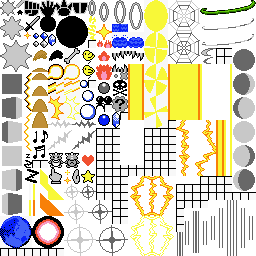
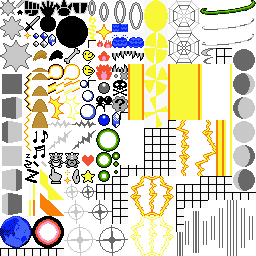
animate sunny day, solar beam

Changed region(s): [[0.375, 0.5, 0.4688, 0.7188], [0.125, 0.625, 0.1875, 0.6562]]

diff --git a/src/Effect.ts b/src/Effect.ts
@@ -723,7 +723,89 @@ const amnesia = (x: number, y: number, dir: number = 1) => (view: View) => {
 	]);
 };
 
+const sunnyDay = (view: View) => {
+	const evt: DeepEvent[] = [];
+	const lifespan = 16;
+	evt.push(view.brighten());
+	for (let i = 0; i < 100; i++) {
+		const x = Math.random() * (Graphics.GAMEBOY_WIDTH * 1.5) - Graphics.GAMEBOY_WIDTH * 0.5;
+		evt.push(view.particleV1(stage => new Particle.Static(stage, x, 0, "SHINE_LIGHT", lifespan)
+			.offsetX(t => t * 96).offsetY(t => t * 96)));
+		if (i % 4 === 0) {
+			evt.push(Events.wait(3));
+		}
+	}
+	evt.push(Events.wait(lifespan));
+	evt.push(view.resetMatrixFilter());
+	return Events.flatten(evt);
+};
+
+const solarBeamCharge = (x: number, y: number) => (view: View) => {
+	const r = 40;
+	const sq2_2 = r * 0.70710678;
+	const charge1 = (dx: number, dy: number) => {
+		return view.particleV1(stage => new Particle.Sequence(stage, x + dx, y + dy, [ "SOLAR_BEAM_1", "SOLAR_BEAM_2", "SOLAR_BEAM_3",  "SOLAR_BEAM_3"  ], 28, 80)
+			.offsetX(t => t * -dx).offsetY(t => t * -dy));
+	}
+	return Events.flatten([
+		charge1(-r, 0),
+		charge1(r, 0),
+		charge1(0, -r),
+		charge1(0, r),
+		charge1(0 - sq2_2, 0 - sq2_2),
+		charge1(0 - sq2_2, 0 + sq2_2),
+		charge1(0 + sq2_2, 0 - sq2_2),
+		charge1(0 + sq2_2, 0 + sq2_2),
+		Events.wait(28),
+		view.particleV1(stage => new Particle.Sequence(stage, x, y, [ "SOLAR_BEAM_4", "SOLAR_BEAM_5", "SOLAR_BEAM_6" ], 33, 99)),
+		Events.wait(70),
+		() => view.getStage().visible = false,
+		Events.wait(4),
+		() => view.getStage().visible = true,
+		Events.wait(25),
+		view.particleV1(stage => new Particle.Static(stage, x, y, "SOLAR_BEAM_6", 33).setFlicker(4)),
+		Events.wait(40)
+	]);
+};
+
+const solarBeam = (x: number, y: number, dir: number = 1) => (view: View) => {
+	// 54 80
+	const delay = 4;
+	const lifespan = 80;
+	const length = 8;
+	const evt: DeepEvent[] = [];
+	const laser12: Particle.AttackTexture[] = [ "LASER_1", "LASER_2" ];
+	const laser21: Particle.AttackTexture[] = [ "LASER_2", "LASER_1" ];
+	for (let i = 0; i < length; i++) {
+		evt.push(view.particleV1(stage => new Particle.Static(stage, x + dir * (4 + 8 * (i + 1)),  y + dir * (- 2 - 4 * (i + 1)), i % 2 === 0 ? "LASER_END_1" : "LASER_END_2", delay)
+			.delayStart(delay * i).flipHorizontally(dir < 0).flipVertically(dir < 0)));
+		evt.push(view.particleV1(stage => new Particle.Sequence(stage, x + dir * (8 * i), y + dir * (- 4 * i), i % 2 === 0 ? laser12 : laser21, delay, lifespan).delayStart(delay * i)));
+	}
+	evt.push([
+		Events.wait(delay * length),
+		view.particleV1(stage => new Particle.Sequence(stage, x + dir * (2 + 8 * length), y + dir * (- 4 * length), [ "LASER_SPLASH_1", "LASER_SPLASH_2" ], delay, lifespan)
+			.flipHorizontally(dir < 0).flipVertically(dir < 0)),
+		Events.wait(lifespan + 40)
+	]);
+	return Events.flatten(evt);
+};
+
 const effects: { [attack: string]: Effect } = {
+
+	"SOLAR BEAM": {
+		ply: solarBeam(54, 76),
+		opp: solarBeam(112, 40, -1)
+	},
+
+	"SOLAR BEAM_STILL": {
+		ply: solarBeamCharge(40, 68),
+		opp: solarBeamCharge(120, 20),
+	},
+
+	"SUNNY DAY": {
+		ply: sunnyDay,
+		opp: sunnyDay
+	},
 
 	"AMNESIA": {
 		ply: amnesia(52, 64),

diff --git a/src/View.ts b/src/View.ts
@@ -111,6 +111,19 @@ class View implements IView {
             opponent: new PIXI.Sprite()
         }
 
+        this.memberSprites.opponent.filters = [ new PIXI.Filter(undefined, `
+            varying vec2 vTextureCoord;
+            uniform sampler2D uSampler;
+            void main(void) {
+                vec4 col = texture2D(uSampler, vTextureCoord.xy);
+                if (col.w >= 0.9 && (col.x <= 0.95 || col.y <= 0.95 || col.z <= 0.95)) {
+                    gl_FragColor = col;
+                } else {
+                    gl_FragColor = vec4(0.0);
+                }
+            }
+        `) ];
+
         this.memberSprites.player.x = Graphics.PLAYER_SPRITE_X;
         this.memberSprites.player.y = Graphics.PLAYER_SPRITE_Y;
 
@@ -211,6 +224,21 @@ class View implements IView {
                 this.grayScale = !this.grayScale;
             }
         };
+    }
+
+    brighten(): Event {
+        return {
+            init: () => {
+                this.matrixFilter.brightness(2, false);
+                this.matrixFilter.tint(0xfffff0, true);
+            }
+        }
+    }
+
+    resetMatrixFilter(): Event {
+        return {
+            init: () => this.matrixFilter.reset()
+        }
     }
 
     getMemberSprite(isPlayer: boolean): PIXI.Sprite {
@@ -572,7 +600,7 @@ class View implements IView {
                     if (shader == null) {
                         throw new Error(`View.shader: shader ${name} does not exist`);
                     }
-                    sprite.filters = [ shader ];
+                    sprite.filters?.push(shader);
                     sprite.visible = true;
                 }
             } 
@@ -591,7 +619,7 @@ class View implements IView {
                 { done: t => t >= delay }
             ])
         }
-        script.push({ init: () => sprite.filters = [] });
+        script.push({ init: () => sprite.filters?.pop() });
         return Events.flatten(script);
     }
 

diff --git a/src/Particle.ts b/src/Particle.ts
@@ -112,6 +112,19 @@ const attackTex = {
 	AMNESIA_1: Graphics.attack(112/8,72/8,1,1),
 	AMNESIA_2: Graphics.attack(112/8 + 1,72/8,1,1),
 	AMNESIA_3: Graphics.attack(112/8,72/8 + 3,2,2),
+	SHINE_LIGHT: Graphics.attack(5, 20, 1, 1),
+	SOLAR_BEAM_1: Graphics.attack(112/8, 168/8, 1, 1),
+	SOLAR_BEAM_2: Graphics.attack(112/8, 168/8 - 1, 1, 1),
+	SOLAR_BEAM_3: Graphics.attack(112/8, 168/8 - 2, 1, 1),
+	SOLAR_BEAM_4: Graphics.attack(112/8 - 2, 168/8, 2, 2),
+	SOLAR_BEAM_5: Graphics.attack(112/8 - 2, 168/8 - 2, 2, 2),
+	SOLAR_BEAM_6: Graphics.attack(112/8 - 2, 128/8, 3, 3),
+	LASER_1: Graphics.attack(48/8,10,1,2),
+	LASER_2: Graphics.attack(48/8 + 1,10,1,2),
+	LASER_END_1: Graphics.attack(48/8,8,2,2),
+	LASER_END_2: Graphics.attack(48/8 + 2,8,2,2),
+	LASER_SPLASH_1: Graphics.attack(48/8,12,2,3),
+	LASER_SPLASH_2: Graphics.attack(48/8 + 2,12,2,3)
 };
 
 type AttackTexture = keyof typeof attackTex;
@@ -218,13 +231,15 @@ class Particle {
 		return this;
 	}
 
-	flipHorizontally() {
-		this.sprites[0].scale.x = -this.sprites[0].scale.x;
+	flipHorizontally(condition: boolean = true) {
+		if (condition)
+			this.sprites[0].scale.x = -this.sprites[0].scale.x;
 		return this;
 	}
 
-	flipVertically() {
-		this.sprites[0].scale.y = -this.sprites[0].scale.y;
+	flipVertically(condition: boolean = true) {
+		if (condition)
+			this.sprites[0].scale.y = -this.sprites[0].scale.y;
 		return this;
 	}
 

diff --git a/demo/menus/src/index.ts b/demo/menus/src/index.ts
@@ -1,6 +1,7 @@
 import * as PIXI from "pixi.js-legacy";
 import { Input, GameV2, Graphics, MemberObject, View, BattleInfo, TeamObject } from "../../../src/index";
 import Resources from "../../Resources";
+import config from "./config.json";
 
 const SCALE = 3;
 const APP_WIDTH = Graphics.GAMEBOY_WIDTH * SCALE;
@@ -43,17 +44,17 @@ initWindow();
 
 const exampleMember1: MemberObject = {
 	id: "demo1",
-	level: 20,
+	level: config.player.level,
 	gender: "none",
-	moves: ["SNORE", "REST", "SWIFT", "SOLAR BEAM"],
+	moves: config.player.moves,
 	name: "COOL GUY"
 };
 
 const exampleMember2: MemberObject = {
 	id: "demo2",
-	level: 20,
+	level: config.opponent.level,
 	gender: "none",
-	moves: ["SNORE", "REST", "PSYCHIC"],
+	moves: config.opponent.moves,
 	name: "BAD GUY"
 };
 

diff --git a/src/MoveInfo.ts b/src/MoveInfo.ts
@@ -255,13 +255,15 @@ const moveInfo: { [move: string]: MoveInfo } = {
       
     },
     "SOLAR BEAM":{
-      
+      sfx: "SolarBeam",
+      pan: 0
     },
     "SOLAR BEAM_STILL":{
-      text: "took in sunlight"
+      sfx: "SolarBeamCharge",
+      text: "took in sunlight",
+      pan: -1
     },
     "POISON POWDER":{
-      
     },
     "STUN SPORE":{
       "sfx":"StunSpore",
@@ -777,7 +779,8 @@ const moveInfo: { [move: string]: MoveInfo } = {
       
     },
     "SUNNY DAY":{
-      
+      sfx: "SunnyDay",
+      pan: 0
     },
     "CRUNCH":{
       "sfx":"Crunch",

diff --git a/MOVES.md b/MOVES.md
@@ -33,9 +33,7 @@ Among other gameplay videos, this is my main reference: https://www.youtube.com/
 - [ ] 73 - Leech Seed
   - [x] mechanics
   - [ ] vfx
-- [ ] 76 - Solar Beam
-  - [x] mechanics
-  - [ ] vfx
+- [x] 76 - Solar Beam
 - [ ] 82 - Dragon Rage
 - [x] 85 - Thunderbolt
 - [x] 87 - Thunder
@@ -98,9 +96,8 @@ Among other gameplay videos, this is my main reference: https://www.youtube.com/
   - [ ] mechanics (removes hazards, like leech seed)
   - [ ] vfx
 - [x] 236 - Moonlight
-- [ ] 241 - Sunny Day
-  - [x] mechanics
-  - [ ] vfx
+- [x] 241 - Sunny Day
+  - does the "sun is still strong" message use this vfx?
 - [x] 242 - Crunch
 - [x] 245 - Extreme Speed
 - [X] 247 - Shadow Ball
